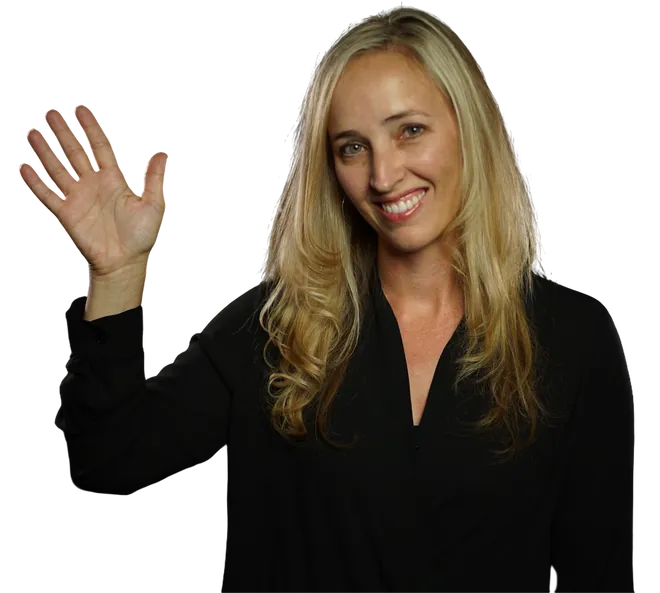
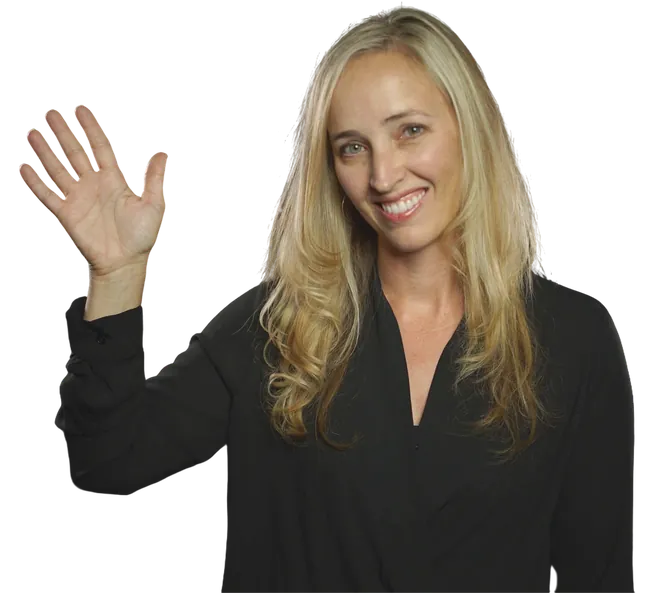
Add the third-portrait tile, and lift Brenda off the background
30 added: all three span 22-80% of the frame and a full-height portrait crop
holds 52%, so it takes 23.5-76%. Every face is whole; only the outer
shoulders are trimmed. 16K desktop, 13K mobile.

You were right about Brenda. Her median luminance was 15.9 against a page
ground sitting at about 14, so her blouse and the section behind her were the
same value and she read as a floating face and hands rather than a person.
Her face measured 113 where skin normally reads 120-170.

A 0.82 gamma with the blacks lifted to 20 puts the median at 44 and the face
at 139. The gamma opens the midtones without touching the highlights, and the
black lift is what actually separates her from the ground. Alpha untouched,
so the cutout edge is unchanged. All four variants rebuilt (WebP and AVIF,
both sizes) and only her URLs move, to v=13.

Twenty-one tiles: 341K desktop, 275K mobile.

diff --git a/bmc-private-invitation.html b/bmc-private-invitation.html
@@ -816,6 +816,7 @@ body.bco-open { overflow: hidden; }
       <img src="studio45/face-29.webp?v=13" srcset="studio45/face-29-s.webp?v=13 296w, studio45/face-29.webp?v=13 340w" sizes="(max-width: 720px) 148px, 208px" alt="" loading="lazy" decoding="async" width="340" height="432">
       <img src="studio45/face-18.webp?v=12" srcset="studio45/face-18-s.webp?v=12 296w, studio45/face-18.webp?v=12 340w" sizes="(max-width: 720px) 148px, 208px" alt="" loading="lazy" decoding="async" width="340" height="432">
       <img src="studio45/face-22.webp?v=12" srcset="studio45/face-22-s.webp?v=12 296w, studio45/face-22.webp?v=12 340w" sizes="(max-width: 720px) 148px, 208px" alt="" loading="lazy" decoding="async" width="340" height="432">
+      <img src="studio45/face-30.webp?v=13" srcset="studio45/face-30-s.webp?v=13 296w, studio45/face-30.webp?v=13 340w" sizes="(max-width: 720px) 148px, 208px" alt="" loading="lazy" decoding="async" width="340" height="432">
       <img src="studio45/face-25.webp?v=13" srcset="studio45/face-25-s.webp?v=13 296w, studio45/face-25.webp?v=13 340w" sizes="(max-width: 720px) 148px, 208px" alt="" loading="lazy" decoding="async" width="340" height="432">
       <img src="studio45/face-03.webp?v=12" srcset="studio45/face-03-s.webp?v=12 296w, studio45/face-03.webp?v=12 340w" sizes="(max-width: 720px) 148px, 208px" alt="" loading="lazy" decoding="async" width="340" height="432">
       <img src="studio45/face-13.webp?v=12" srcset="studio45/face-13-s.webp?v=12 296w, studio45/face-13.webp?v=12 340w" sizes="(max-width: 720px) 148px, 208px" alt="" loading="lazy" decoding="async" width="340" height="432">
@@ -826,6 +827,7 @@ body.bco-open { overflow: hidden; }
       <img src="studio45/face-29.webp?v=13" srcset="studio45/face-29-s.webp?v=13 296w, studio45/face-29.webp?v=13 340w" sizes="(max-width: 720px) 148px, 208px" alt="" loading="lazy" decoding="async" width="340" height="432">
       <img src="studio45/face-18.webp?v=12" srcset="studio45/face-18-s.webp?v=12 296w, studio45/face-18.webp?v=12 340w" sizes="(max-width: 720px) 148px, 208px" alt="" loading="lazy" decoding="async" width="340" height="432">
       <img src="studio45/face-22.webp?v=12" srcset="studio45/face-22-s.webp?v=12 296w, studio45/face-22.webp?v=12 340w" sizes="(max-width: 720px) 148px, 208px" alt="" loading="lazy" decoding="async" width="340" height="432">
+      <img src="studio45/face-30.webp?v=13" srcset="studio45/face-30-s.webp?v=13 296w, studio45/face-30.webp?v=13 340w" sizes="(max-width: 720px) 148px, 208px" alt="" loading="lazy" decoding="async" width="340" height="432">
     </div>
   </div>
 
@@ -918,7 +920,7 @@ body.bco-open { overflow: hidden; }
    <div class="pi-close-grid">
 
     <figure class="pi-brenda reveal reveal-scale">
-      <picture><source type="image/avif" srcset="studio45/brenda-s.avif?v=12 660w, studio45/brenda.avif?v=12 1300w" sizes="(max-width: 980px) 317px, 658px"><img src="studio45/brenda.webp?v=12" srcset="studio45/brenda-s.webp?v=12 660w, studio45/brenda.webp?v=12 1300w" sizes="(max-width: 980px) 317px, 658px"  alt="Brenda, member services, waving"
+      <picture><source type="image/avif" srcset="studio45/brenda-s.avif?v=13 660w, studio45/brenda.avif?v=13 1300w" sizes="(max-width: 980px) 317px, 658px"><img src="studio45/brenda.webp?v=13" srcset="studio45/brenda-s.webp?v=13 660w, studio45/brenda.webp?v=13 1300w" sizes="(max-width: 980px) 317px, 658px"  alt="Brenda, member services, waving"
            width="1300" height="1168" loading="lazy" decoding="async" /></picture>
     </figure>
 
